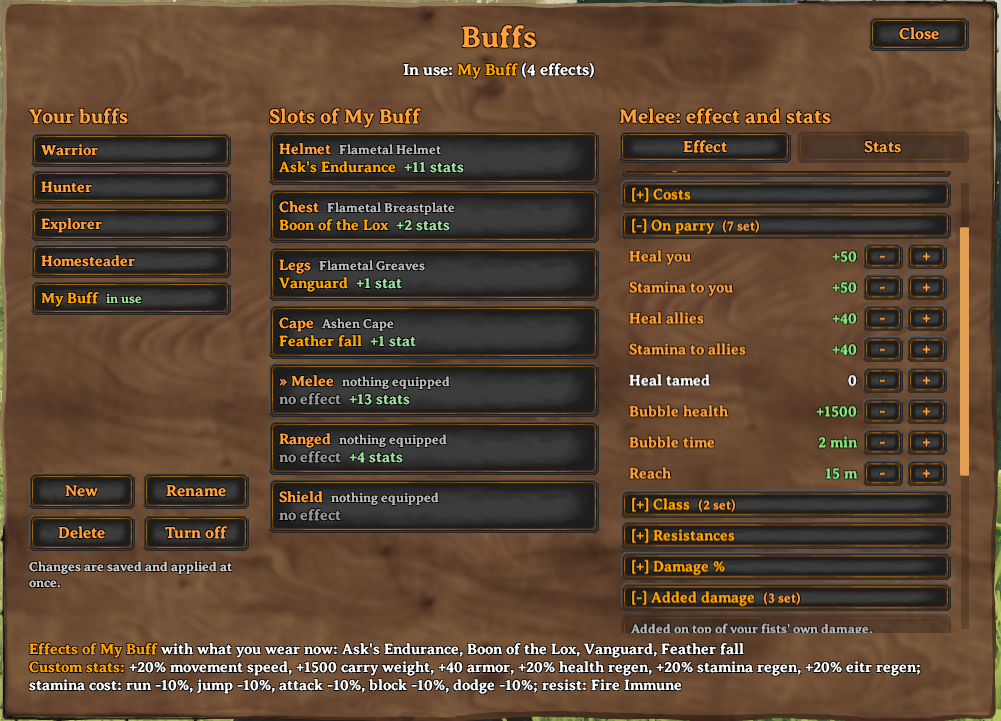
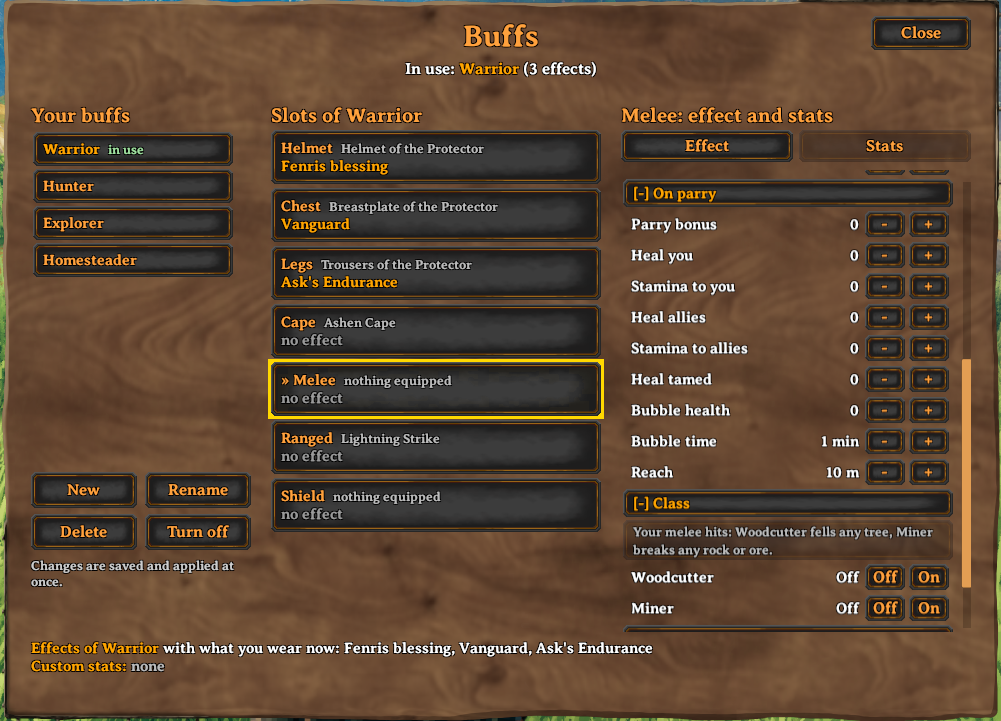
docs: screenshots for 1.3.0 (gold frame, armor-slot stats, Parry bonus)

diff --git a/package/README.md b/package/README.md
@@ -44,8 +44,8 @@ A buff gives each slot (helmet, chest, legs, cape, melee, ranged, shield) an ext
   lightning) does nothing to wood or stone. To make it work, add blunt, slash or other physical damage under *Added
   damage* on the Ranged slot (e.g. +10 pierce). Digging the ground stays a pickaxe thing.
 
-![Custom stats of a slot: Costs](https://raw.githubusercontent.com/algo7/LoadoutBuffs/main/images/stats-general.png)
-![On parry: heal, stamina, bubble health and time, reach](https://raw.githubusercontent.com/algo7/LoadoutBuffs/main/images/stats-on-parry.png)
+![Custom stats of an armor slot: General, Regen, Costs](https://raw.githubusercontent.com/algo7/LoadoutBuffs/main/images/stats-general.png)
+![On parry: parry bonus, heal, stamina, bubble health and time, reach](https://raw.githubusercontent.com/algo7/LoadoutBuffs/main/images/stats-on-parry.png)
 
 ![The buff in use on the HUD, followed by its effects](https://raw.githubusercontent.com/algo7/LoadoutBuffs/main/images/hud-buff.png)
 
